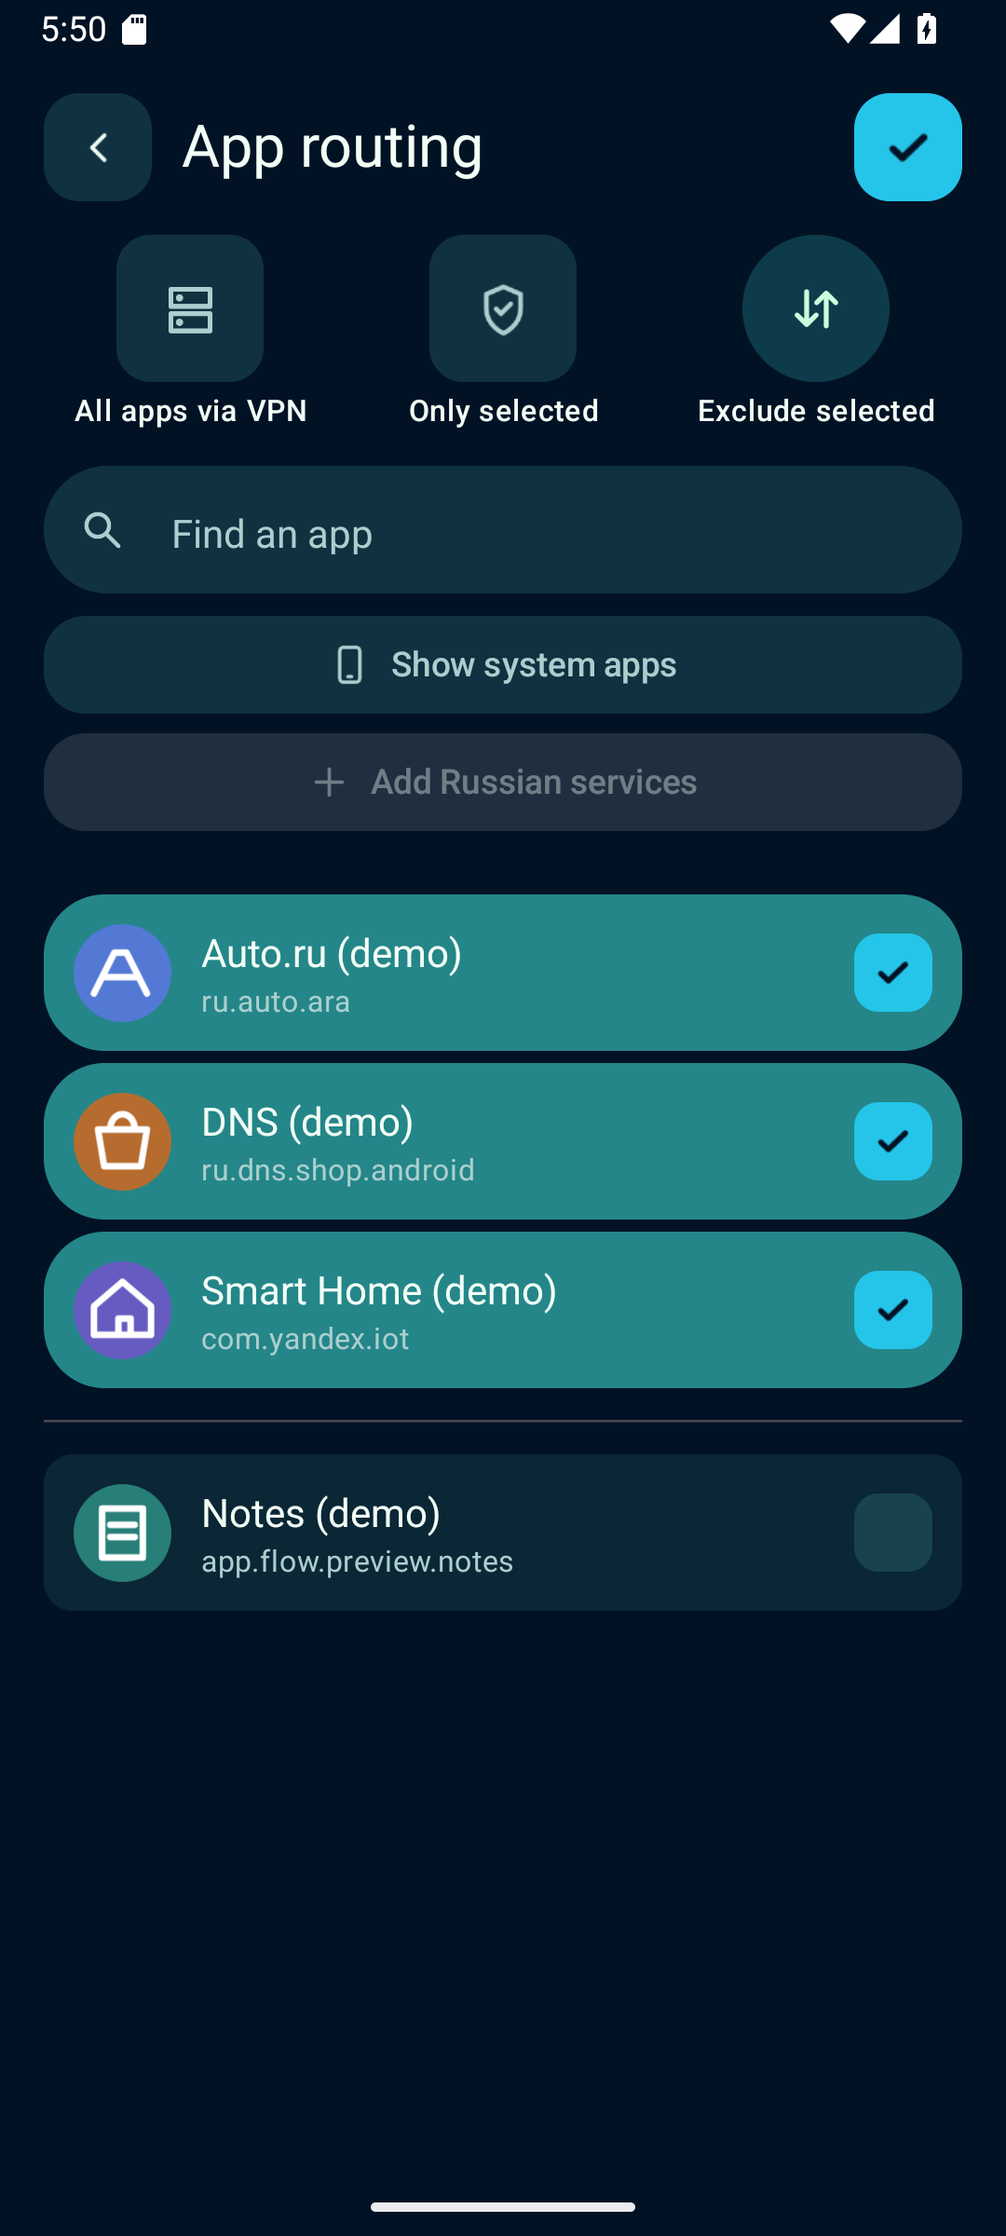
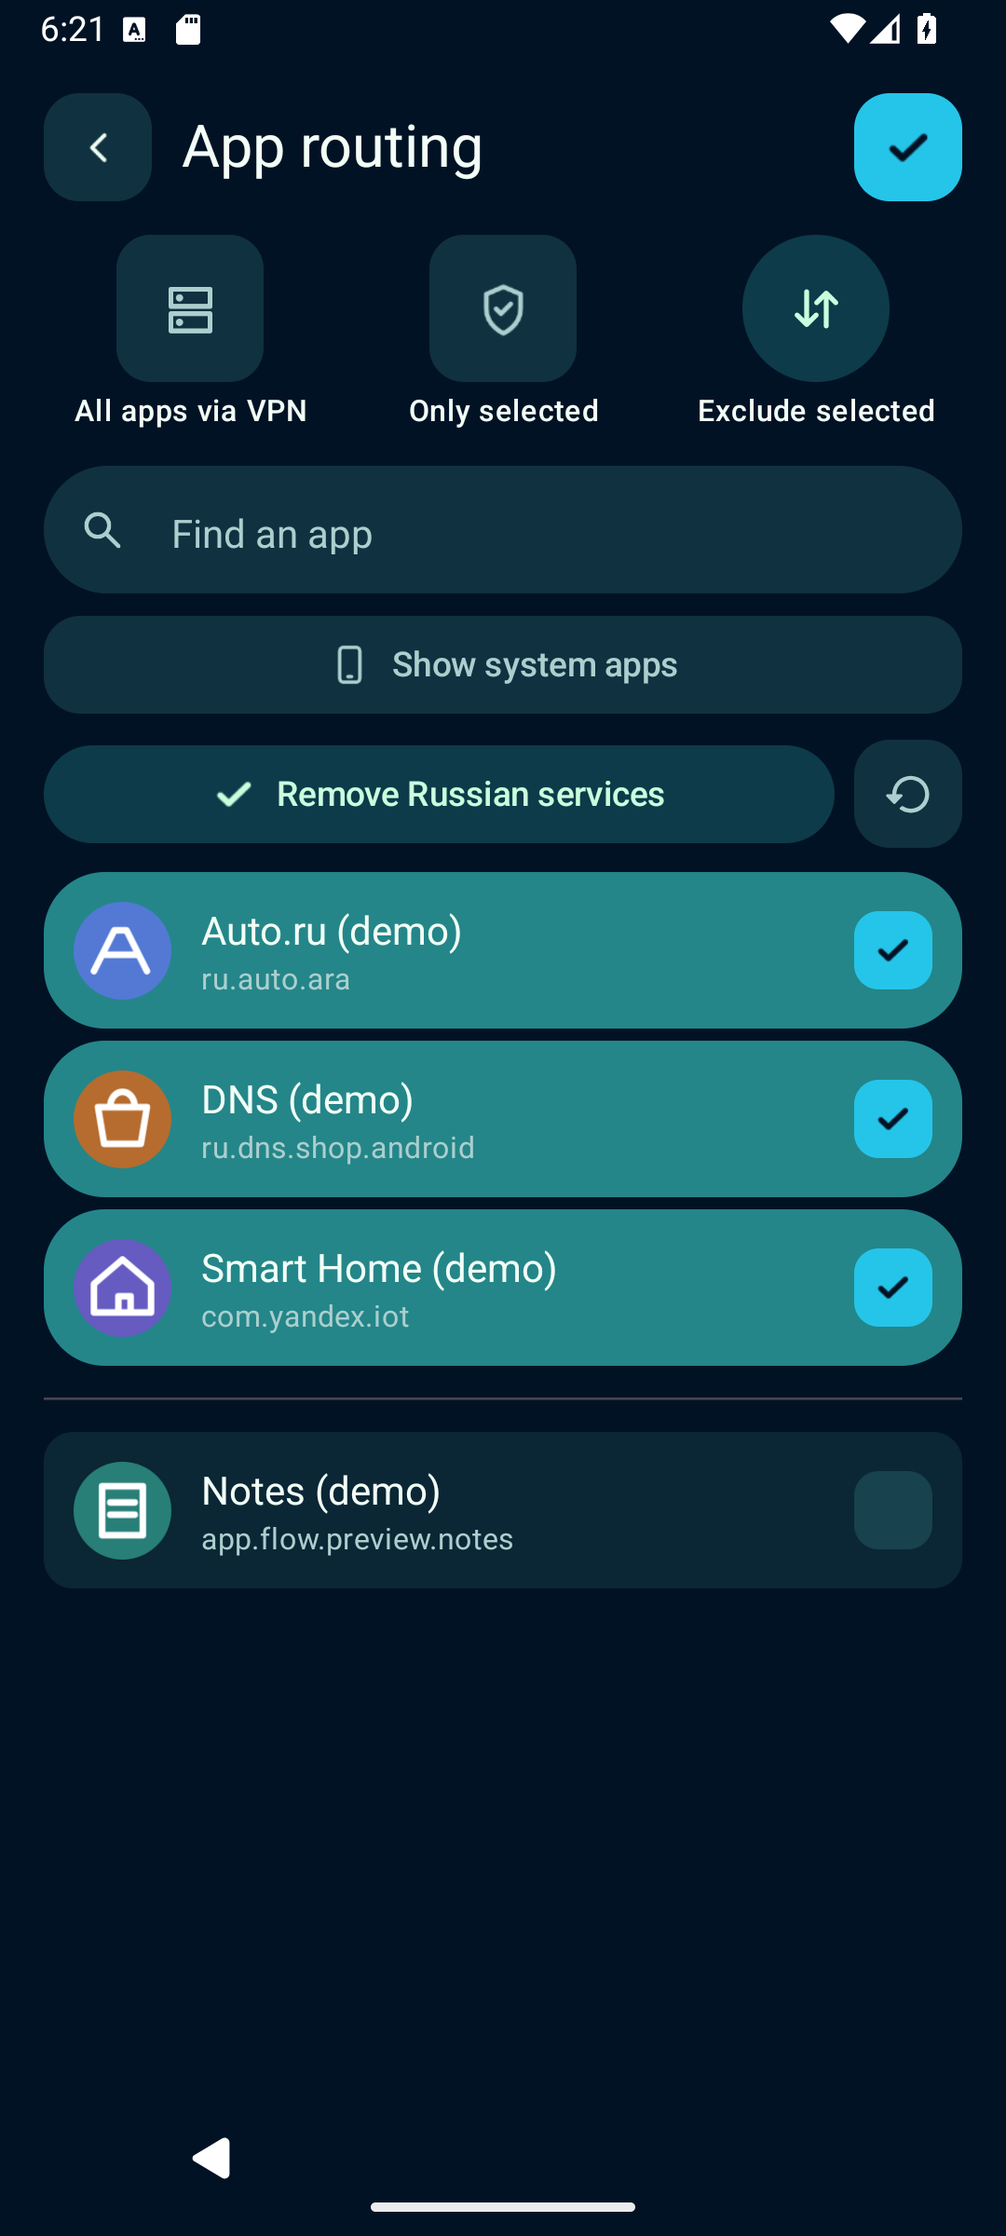
Keep app routing selection and scrolling stable

diff --git a/V2rayNG/app/src/main/java/com/v2ray/ang/ui/flow/FlowTools.kt b/V2rayNG/app/src/main/java/com/v2ray/ang/ui/flow/FlowTools.kt
@@ -3,6 +3,7 @@ package com.v2ray.ang.ui.flow
 import android.content.Context
 import androidx.activity.compose.BackHandler
 import androidx.compose.animation.AnimatedContent
+import androidx.compose.animation.AnimatedVisibility
 import androidx.compose.animation.animateColorAsState
 import androidx.compose.animation.core.animateFloatAsState
 import androidx.compose.animation.fadeIn
@@ -30,11 +31,11 @@ import androidx.compose.runtime.saveable.rememberSaveableStateHolder
 import androidx.compose.ui.Alignment
 import androidx.compose.ui.Modifier
 import androidx.compose.ui.draw.clip
+import androidx.compose.ui.draw.clipToBounds
 import androidx.compose.ui.graphics.asImageBitmap
 import androidx.compose.ui.graphics.graphicsLayer
-import androidx.compose.ui.layout.onSizeChanged
-import androidx.compose.ui.platform.LocalDensity
 import androidx.compose.ui.platform.LocalContext
+import androidx.compose.ui.platform.LocalFocusManager
 import androidx.compose.ui.platform.LocalLayoutDirection
 import androidx.compose.ui.res.painterResource
 import androidx.compose.ui.res.stringResource
@@ -168,12 +169,8 @@ private enum class AppRoutingMode(val label: Int, val icon: Int) {
 private fun AppRoutingPage(actions: FlowActivity, back: () -> Unit) {
     val context = LocalContext.current
     val colors = MaterialTheme.colorScheme
-    val apps by produceState<List<AppInfo>?>(null, context) {
-        value = withContext(Dispatchers.IO) {
-            AppManagerUtil.loadNetworkAppList(context).filterNot { it.packageName == context.packageName }
-                .sortedWith(compareBy(String.CASE_INSENSITIVE_ORDER, AppInfo::appName))
-        }
-    }
+    val motion = MaterialTheme.motionScheme
+    val focus = LocalFocusManager.current
     var selected by rememberSaveable {
         mutableStateOf(ArrayList(MmkvManager.decodeSettingsStringSet(AppConfig.PREF_PER_APP_PROXY_SET).orEmpty()))
     }
@@ -184,19 +181,15 @@ private fun AppRoutingPage(actions: FlowActivity, back: () -> Unit) {
             else -> AppRoutingMode.ONLY_SELECTED
         })
     }
-    var includeSystem by rememberSaveable { mutableStateOf(false) }
-    var query by rememberSaveable { mutableStateOf("") }
-    val selectedPackages = remember(selected) { selected.toSet() }
-    val (selectedApps, otherApps) = remember(query, includeSystem, apps, selectedPackages) {
-        val text = query.trim()
-        apps.orEmpty().filter { app ->
-            (includeSystem || !app.isSystemApp || app.packageName in selectedPackages) &&
-                (app.appName.contains(text, true) || app.packageName.contains(text, true))
-        }.partition { it.packageName in selectedPackages }
-    }
-    val unselectedRussianApps = remember(apps, selectedPackages) {
-        apps.orEmpty().map(AppInfo::packageName)
-            .filter { it in russianServicePackages && it !in selectedPackages }
+    val pickerVisible = mode != AppRoutingMode.ALL
+    val pickerState = rememberSaveableStateHolder()
+    val apps by produceState<List<AppInfo>?>(null, context, pickerVisible) {
+        if (pickerVisible && value == null) {
+            value = withContext(Dispatchers.IO) {
+                AppManagerUtil.loadNetworkAppList(context).filterNot { it.packageName == context.packageName }
+                    .sortedWith(compareBy(String.CASE_INSENSITIVE_ORDER, AppInfo::appName))
+            }
+        }
     }
 
     SettingsScreen(stringResource(R.string.flow_split), back, toolbar = {
@@ -219,7 +212,10 @@ private fun AppRoutingPage(actions: FlowActivity, back: () -> Unit) {
                         MaterialTheme.motionScheme.fastEffectsSpec(), label = "routing button color")
                     val label = stringResource(choice.label)
                     FilledIconButton(
-                        onClick = { mode = choice },
+                        onClick = {
+                            if (choice == AppRoutingMode.ALL) focus.clearFocus()
+                            mode = choice
+                        },
                         modifier = Modifier.size(60.dp).semantics {
                             this.selected = chosen
                             contentDescription = label
@@ -235,101 +231,175 @@ private fun AppRoutingPage(actions: FlowActivity, back: () -> Unit) {
                 }
             }
         }
-        Spacer(Modifier.height(14.dp))
-        val density = LocalDensity.current
-        val listState = rememberLazyListState()
-        var controlsHeight by remember { mutableIntStateOf(0) }
-        val inset = if (controlsHeight == 0) 162.dp else with(density) { controlsHeight.toDp() }
-        Box(Modifier.weight(1f).fillMaxWidth()) {
-            LazyColumn(
-                Modifier.fillMaxSize().flowHeaderFade(inset, 24.dp, visible = listState.canScrollBackward),
-                state = listState,
-                contentPadding = PaddingValues(top = inset, bottom = 20.dp),
-                verticalArrangement = Arrangement.spacedBy(5.dp),
-            ) {
-                if (apps == null) item("loading") {
-                    Box(Modifier.fillMaxWidth().padding(top = 20.dp), contentAlignment = Alignment.Center) { LoadingIndicator() }
-                } else if (selectedApps.isEmpty() && otherApps.isEmpty()) item("empty") {
-                    EmptyMessage(R.string.flow_no_apps)
-                }
-                val appRow: @Composable LazyItemScope.(AppInfo) -> Unit = { app ->
-                    val mark = app.packageName in selectedPackages
-                    val radius = flowChoiceRadius(mark, 12.dp, 25.dp)
-                    val interaction = remember { MutableInteractionSource() }
-                    val icon = remember(app) { app.appIcon.toBitmap(width = 104, height = 104).asImageBitmap() }
-                    Row(
-                        Modifier.animateItem(placementSpec = MaterialTheme.motionScheme.defaultSpatialSpec())
-                            .fillMaxWidth().heightIn(min = 64.dp).flowPress(interaction)
-                            .clip(RoundedCornerShape(radius))
-                            .background(if (mark) colors.secondaryContainer else colors.surfaceContainer)
-                            .toggleable(mark, interaction, ripple(), role = Role.Checkbox) { picked ->
-                                selected = ArrayList(if (picked) selectedPackages + app.packageName else selectedPackages - app.packageName)
-                            }.padding(horizontal = 12.dp, vertical = 7.dp),
-                        horizontalArrangement = Arrangement.spacedBy(12.dp),
-                        verticalAlignment = Alignment.CenterVertically,
-                    ) {
-                        Image(icon, contentDescription = null, modifier = Modifier.size(40.dp))
-                        Column(Modifier.weight(1f)) {
-                            Text(app.appName, style = MaterialTheme.typography.bodyLarge, maxLines = 2, overflow = TextOverflow.Ellipsis)
-                            Text(app.packageName, style = MaterialTheme.typography.bodySmall, color = colors.onSurfaceVariant,
-                                maxLines = 1, overflow = TextOverflow.Ellipsis)
-                        }
-                        val checkColor by animateColorAsState(if (mark) colors.primary else colors.surfaceContainerHighest,
-                            MaterialTheme.motionScheme.fastEffectsSpec(), label = "app selected")
-                        Box(Modifier.size(32.dp).clip(RoundedCornerShape(10.dp)).background(checkColor),
-                            contentAlignment = Alignment.Center) {
-                            val check by animateFloatAsState(if (mark) 1f else 0f,
-                                MaterialTheme.motionScheme.fastSpatialSpec(), label = "app checkmark")
-                            Box(Modifier.graphicsLayer {
-                                alpha = check.coerceIn(0f, 1f)
-                                scaleX = .55f + alpha * .45f
-                                scaleY = scaleX
-                            }) {
-                                FlowIcon(R.drawable.flow_status_on, 16.dp, colors.onPrimary)
-                            }
-                        }
-                    }
-                }
-                items(selectedApps, key = AppInfo::packageName, itemContent = appRow)
-                if (selectedApps.isNotEmpty() && otherApps.isNotEmpty()) item("routing-divider") {
-                    HorizontalDivider(Modifier.fillMaxWidth().padding(vertical = 8.dp), color = colors.outlineVariant)
-                }
-                items(otherApps, key = AppInfo::packageName, itemContent = appRow)
+        AnimatedVisibility(
+            visible = pickerVisible,
+            modifier = Modifier.weight(1f),
+            enter = fadeIn(motion.fastEffectsSpec()),
+            exit = fadeOut(motion.fastEffectsSpec()),
+        ) {
+            pickerState.SaveableStateProvider("app-picker") {
+                val selectedPackages = remember(selected) { selected.toSet() }
+                AppRoutingPicker(apps, selectedPackages) { selected = ArrayList(it) }
             }
-            Column(Modifier.fillMaxWidth().onSizeChanged { controlsHeight = it.height }.padding(bottom = 22.dp)) {
-                FlowSearchField(query, { query = it }, R.string.flow_find_app)
-                val systemLabel = stringResource(if (includeSystem) R.string.flow_show_user_apps else R.string.flow_show_system_apps)
-                val systemFill by animateColorAsState(if (includeSystem) colors.secondaryContainer else colors.surfaceContainerHigh,
-                    MaterialTheme.motionScheme.defaultEffectsSpec(), label = "system apps toggle color")
-                FilledTonalButton(
-                    onClick = { includeSystem = !includeSystem },
-                    modifier = Modifier.fillMaxWidth().padding(top = 5.dp).semantics { contentDescription = systemLabel },
-                    shapes = ButtonDefaults.shapes(RoundedCornerShape(17.dp), RoundedCornerShape(10.dp)),
-                    colors = ButtonDefaults.filledTonalButtonColors(
-                        containerColor = systemFill,
-                        contentColor = if (includeSystem) colors.onSecondaryContainer else colors.onSurfaceVariant,
-                    ),
+        }
+    }
+}
+
+@Composable
+@OptIn(ExperimentalMaterial3ExpressiveApi::class)
+private fun AppRoutingPicker(
+    apps: List<AppInfo>?,
+    selectedPackages: Set<String>,
+    onSelectionChange: (Set<String>) -> Unit,
+) {
+    val colors = MaterialTheme.colorScheme
+    val motion = MaterialTheme.motionScheme
+    var includeSystem by rememberSaveable { mutableStateOf(false) }
+    var query by rememberSaveable { mutableStateOf("") }
+    val listState = rememberLazyListState()
+    val (selectedApps, otherApps) = remember(query, includeSystem, apps, selectedPackages) {
+        val text = query.trim()
+        apps.orEmpty().filter { app ->
+            (includeSystem || !app.isSystemApp || app.packageName in selectedPackages) &&
+                (app.appName.contains(text, true) || app.packageName.contains(text, true))
+        }.partition { it.packageName in selectedPackages }
+    }
+    val russianApps = remember(apps) {
+        apps.orEmpty().map(AppInfo::packageName).filter { it in russianServicePackages }.toSet()
+    }
+    val russianAppsSelected = russianApps.isNotEmpty() && selectedPackages.containsAll(russianApps)
+    fun updateSelection(packages: Set<String>) {
+        // Preserve the viewport when its first visible package moves to the other section.
+        listState.requestScrollToItem(listState.firstVisibleItemIndex, listState.firstVisibleItemScrollOffset)
+        onSelectionChange(packages)
+    }
+
+    Column(Modifier.fillMaxSize().padding(top = 14.dp)) {
+        Column(Modifier.fillMaxWidth(), verticalArrangement = Arrangement.spacedBy(5.dp)) {
+            FlowSearchField(query, { query = it }, R.string.flow_find_app)
+            RoutingToggleButton(
+                active = includeSystem,
+                inactiveLabel = R.string.flow_show_system_apps,
+                activeLabel = R.string.flow_show_user_apps,
+                icon = R.drawable.flow_android,
+                modifier = Modifier.fillMaxWidth(),
+                onClick = { includeSystem = !includeSystem },
+            )
+            Row(Modifier.fillMaxWidth(), horizontalArrangement = Arrangement.spacedBy(8.dp),
+                verticalAlignment = Alignment.CenterVertically) {
+                RoutingToggleButton(
+                    active = russianAppsSelected,
+                    inactiveLabel = R.string.flow_add_russian_apps,
+                    activeLabel = R.string.flow_remove_russian_apps,
+                    icon = R.drawable.flow_add,
+                    activeIcon = R.drawable.flow_status_on,
+                    modifier = Modifier.weight(1f),
+                    enabled = russianApps.isNotEmpty(),
+                    onClick = {
+                        updateSelection(if (russianAppsSelected) selectedPackages - russianApps else selectedPackages + russianApps)
+                    },
+                )
+                ActionSquare(R.drawable.ic_restore_24dp, R.string.flow_reset_selected_apps, 44.dp,
+                    colors.surfaceContainerHigh, colors.onSurfaceVariant, { updateSelection(emptySet()) },
+                    enabled = selectedPackages.isNotEmpty())
+            }
+        }
+        LazyColumn(
+            Modifier.weight(1f).fillMaxWidth().clipToBounds()
+                .flowHeaderFade(14.dp, 14.dp, visible = listState.canScrollBackward),
+            state = listState,
+            contentPadding = PaddingValues(top = 8.dp, bottom = 20.dp),
+            verticalArrangement = Arrangement.spacedBy(5.dp),
+        ) {
+            if (apps == null) item("loading") {
+                Box(Modifier.fillMaxWidth().padding(top = 20.dp), contentAlignment = Alignment.Center) { LoadingIndicator() }
+            } else if (selectedApps.isEmpty() && otherApps.isEmpty()) item("empty") {
+                EmptyMessage(R.string.flow_no_apps)
+            }
+            val appRow: @Composable LazyItemScope.(AppInfo) -> Unit = { app ->
+                val mark = app.packageName in selectedPackages
+                val radius = flowChoiceRadius(mark, 12.dp, 25.dp)
+                val interaction = remember { MutableInteractionSource() }
+                val icon = remember(app) { app.appIcon.toBitmap(width = 104, height = 104).asImageBitmap() }
+                Row(
+                    Modifier.animateItem(
+                        fadeInSpec = motion.fastEffectsSpec(),
+                        placementSpec = motion.fastSpatialSpec(),
+                        fadeOutSpec = motion.fastEffectsSpec(),
+                    )
+                        .fillMaxWidth().heightIn(min = 64.dp).flowPress(interaction)
+                        .clip(RoundedCornerShape(radius))
+                        .background(if (mark) colors.secondaryContainer else colors.surfaceContainer)
+                        .toggleable(mark, interaction, ripple(), role = Role.Checkbox) { picked ->
+                            updateSelection(if (picked) selectedPackages + app.packageName else selectedPackages - app.packageName)
+                        }.padding(horizontal = 12.dp, vertical = 7.dp),
+                    horizontalArrangement = Arrangement.spacedBy(12.dp),
+                    verticalAlignment = Alignment.CenterVertically,
                 ) {
-                    FlowIcon(R.drawable.flow_android, 18.dp, LocalContentColor.current)
-                    Spacer(Modifier.width(8.dp))
-                    FlowToggleContent(includeSystem, Modifier.clearAndSetSemantics {}, label = "system apps label") {
-                        Text(stringResource(if (it) R.string.flow_show_user_apps else R.string.flow_show_system_apps))
+                    Image(icon, contentDescription = null, modifier = Modifier.size(40.dp))
+                    Column(Modifier.weight(1f)) {
+                        Text(app.appName, style = MaterialTheme.typography.bodyLarge, maxLines = 2, overflow = TextOverflow.Ellipsis)
+                        Text(app.packageName, style = MaterialTheme.typography.bodySmall, color = colors.onSurfaceVariant,
+                            maxLines = 1, overflow = TextOverflow.Ellipsis)
+                    }
+                    val checkColor by animateColorAsState(if (mark) colors.primary else colors.surfaceContainerHighest,
+                        MaterialTheme.motionScheme.fastEffectsSpec(), label = "app selected")
+                    Box(Modifier.size(32.dp).clip(RoundedCornerShape(10.dp)).background(checkColor),
+                        contentAlignment = Alignment.Center) {
+                        val check by animateFloatAsState(if (mark) 1f else 0f,
+                            MaterialTheme.motionScheme.fastSpatialSpec(), label = "app checkmark")
+                        Box(Modifier.graphicsLayer {
+                            alpha = check.coerceIn(0f, 1f)
+                            scaleX = .55f + alpha * .45f
+                            scaleY = scaleX
+                        }) {
+                            FlowIcon(R.drawable.flow_status_on, 16.dp, colors.onPrimary)
+                        }
                     }
                 }
-                FilledTonalButton(
-                    onClick = {
-                        selected = ArrayList(selectedPackages + unselectedRussianApps)
-                        if (query.isNotEmpty()) query = ""
-                        listState.requestScrollToItem(0)
-                    },
-                    enabled = unselectedRussianApps.isNotEmpty(),
-                    modifier = Modifier.fillMaxWidth(),
-                    shapes = ButtonDefaults.shapes(RoundedCornerShape(17.dp), RoundedCornerShape(10.dp)),
-                ) {
-                    FlowIcon(R.drawable.flow_add, 18.dp, LocalContentColor.current)
-                    Spacer(Modifier.width(8.dp))
-                    Text(stringResource(R.string.flow_add_russian_apps))
-                }
+            }
+            items(selectedApps, key = AppInfo::packageName, itemContent = appRow)
+            if (selectedApps.isNotEmpty() && otherApps.isNotEmpty()) item("routing-divider") {
+                HorizontalDivider(Modifier.animateItem(placementSpec = motion.fastSpatialSpec())
+                    .fillMaxWidth().padding(vertical = 8.dp), color = colors.outlineVariant)
+            }
+            items(otherApps, key = AppInfo::packageName, itemContent = appRow)
+        }
+    }
+}
+
+@Composable
+@OptIn(ExperimentalMaterial3ExpressiveApi::class)
+private fun RoutingToggleButton(
+    active: Boolean,
+    inactiveLabel: Int,
+    activeLabel: Int,
+    icon: Int,
+    modifier: Modifier = Modifier,
+    activeIcon: Int = icon,
+    enabled: Boolean = true,
+    onClick: () -> Unit,
+) {
+    val colors = MaterialTheme.colorScheme
+    val motion = MaterialTheme.motionScheme
+    val radius = flowChoiceRadius(active, 15.dp, 24.dp)
+    val fill by animateColorAsState(if (active) colors.primaryContainer else colors.surfaceContainerHigh,
+        motion.fastEffectsSpec(), label = "routing toggle fill")
+    val ink by animateColorAsState(if (active) colors.onPrimaryContainer else colors.onSurfaceVariant,
+        motion.fastEffectsSpec(), label = "routing toggle ink")
+    val label = stringResource(if (active) activeLabel else inactiveLabel)
+    FilledTonalButton(
+        onClick = onClick,
+        modifier = modifier.semantics { contentDescription = label; selected = active },
+        enabled = enabled,
+        shapes = ButtonDefaults.shapes(RoundedCornerShape(radius), RoundedCornerShape(9.dp)),
+        colors = ButtonDefaults.filledTonalButtonColors(containerColor = fill, contentColor = ink),
+        contentPadding = PaddingValues(horizontal = 12.dp, vertical = 8.dp),
+    ) {
+        FlowToggleContent(active, Modifier.clearAndSetSemantics {}, label = "routing toggle label") { checked ->
+            Row(horizontalArrangement = Arrangement.spacedBy(8.dp), verticalAlignment = Alignment.CenterVertically) {
+                FlowIcon(if (checked) activeIcon else icon, 18.dp, LocalContentColor.current)
+                Text(stringResource(if (checked) activeLabel else inactiveLabel), textAlign = TextAlign.Center)
             }
         }
     }
